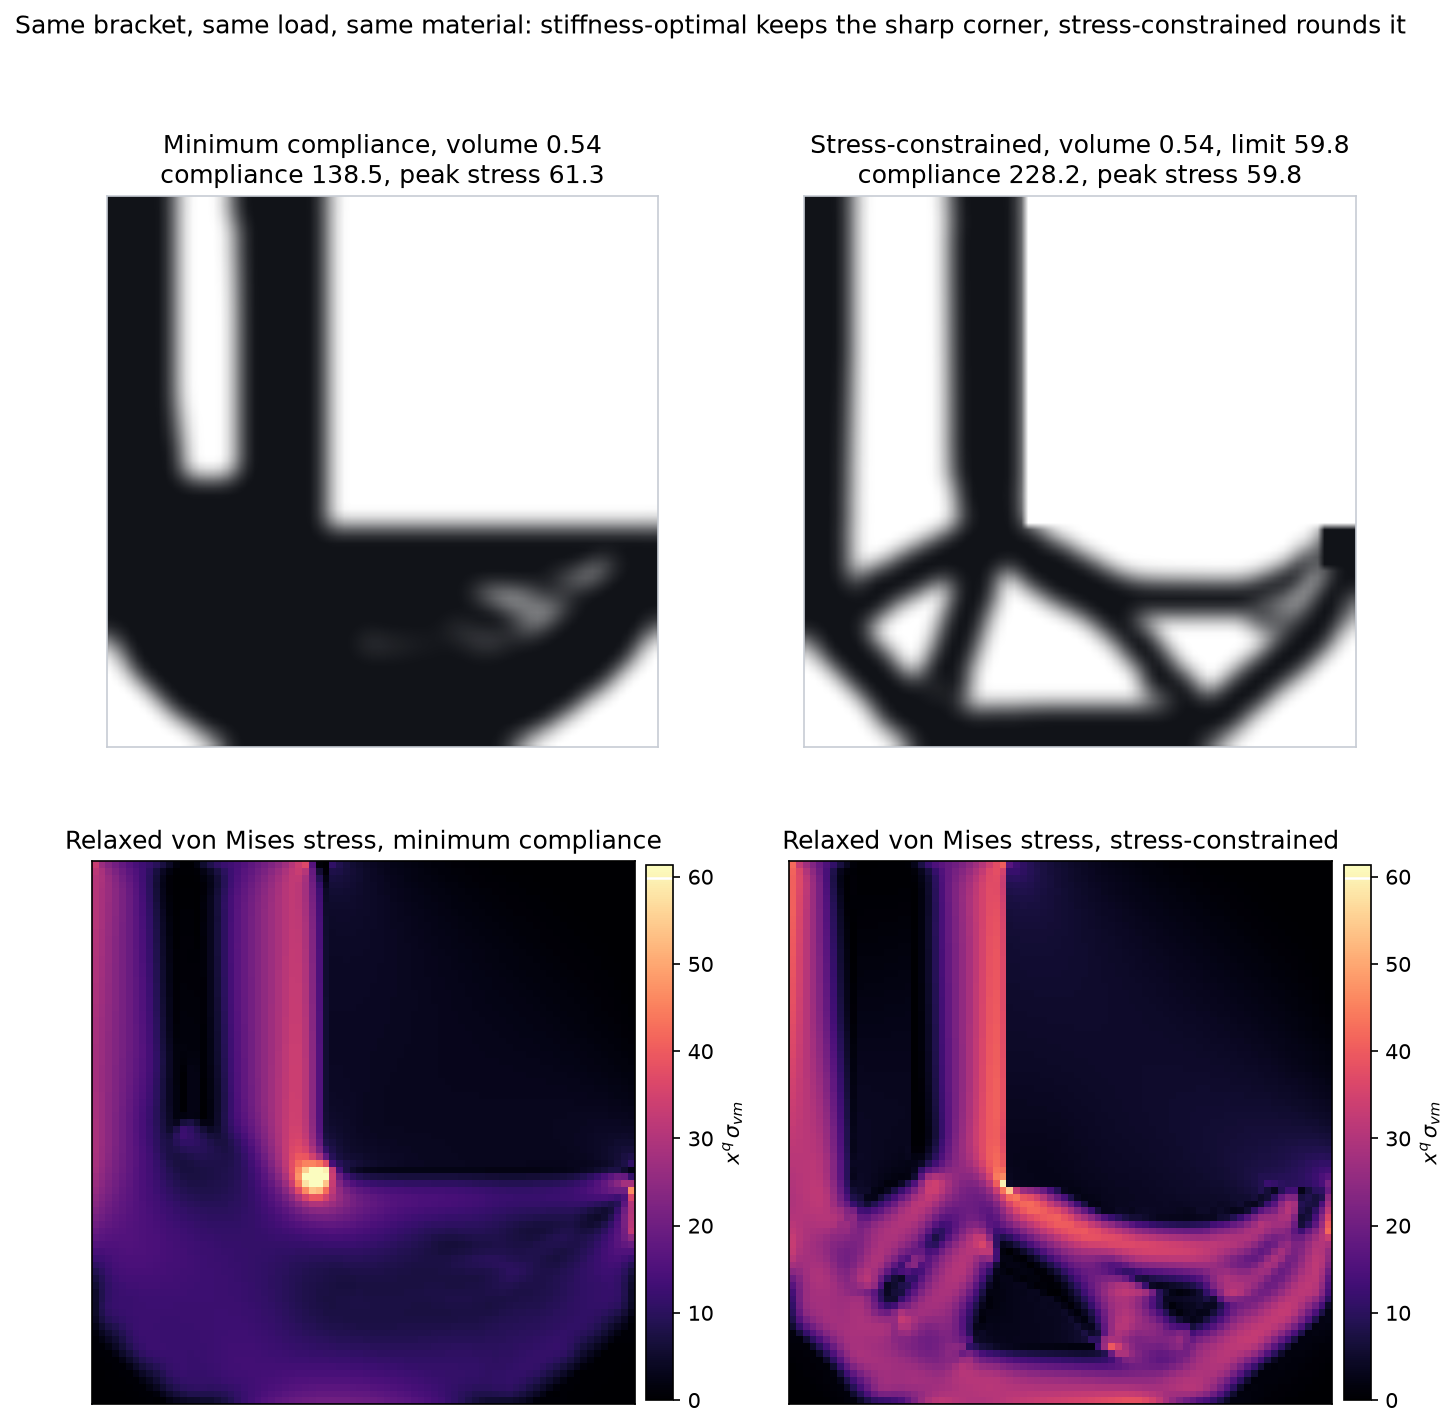
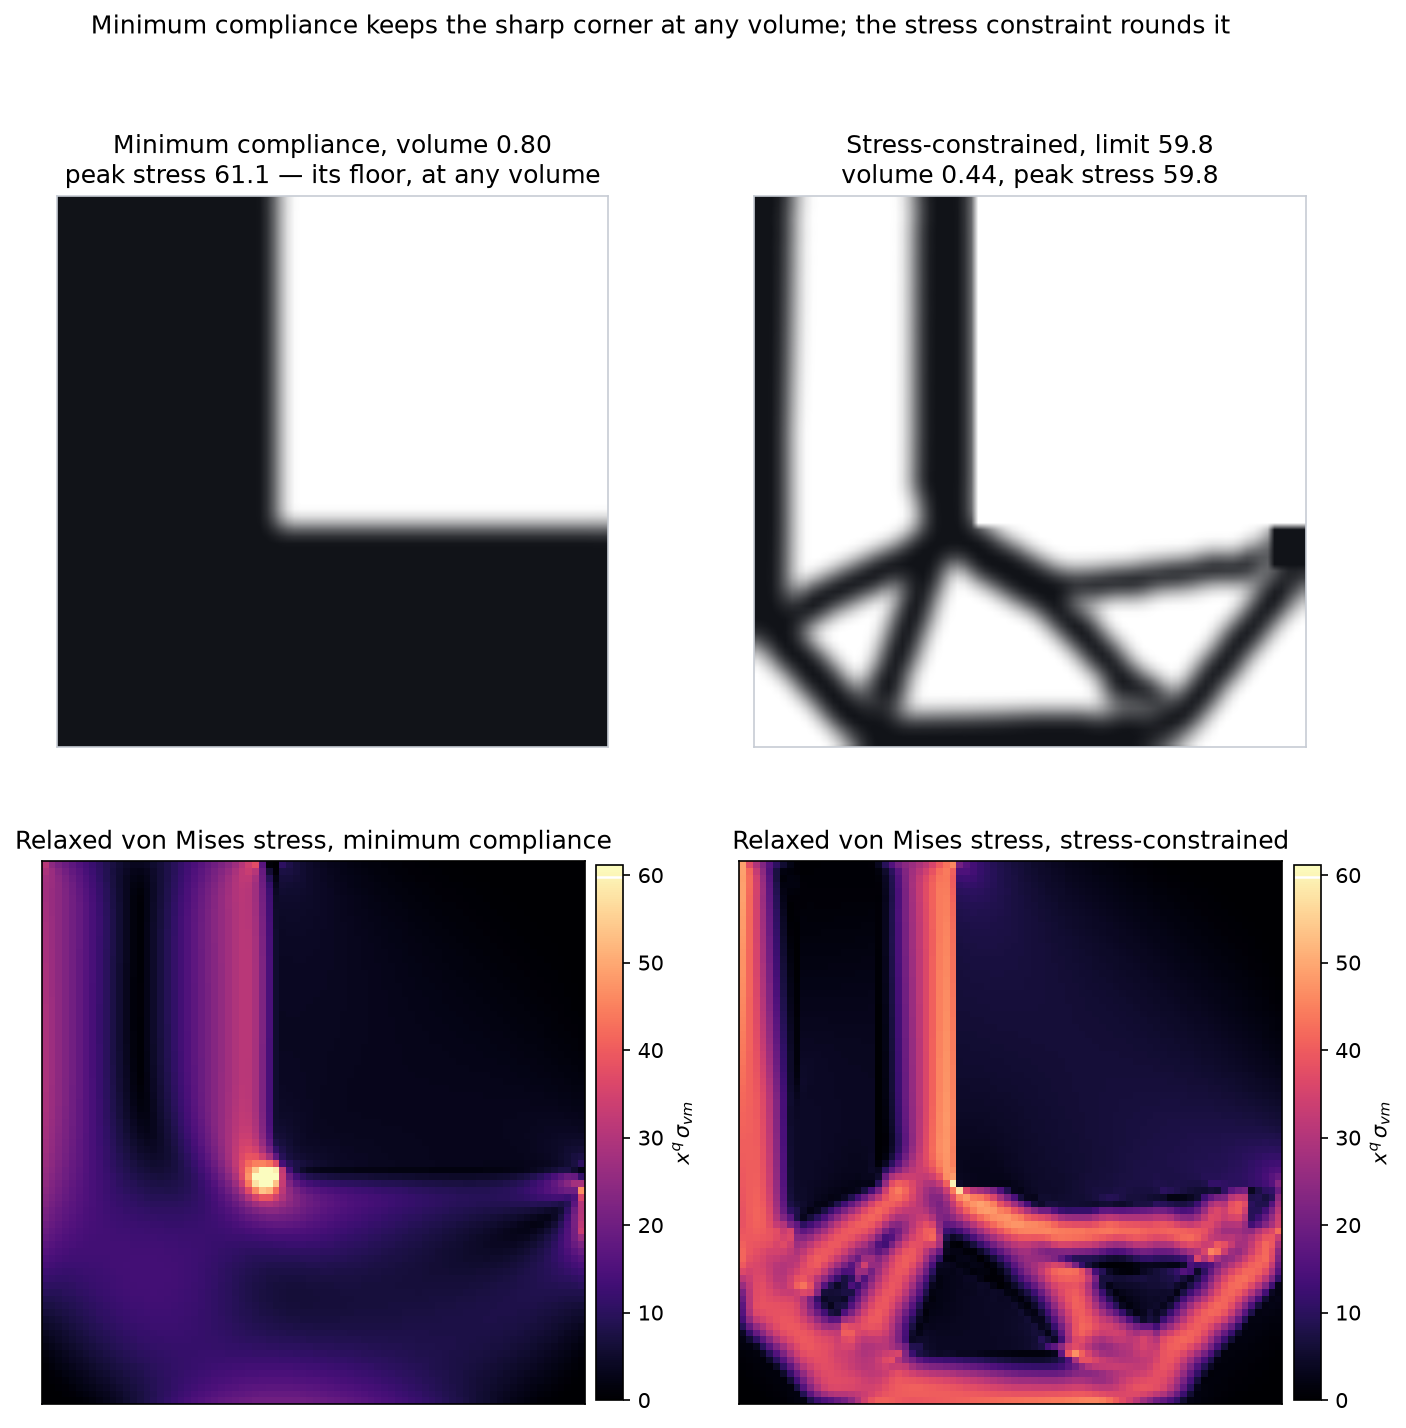
Correct the stress benchmark's reported numbers and refocus the mesh study
The README quoted the compliance stress-floor table from a 200-iteration sweep
that did not include the 0.40 volume point; regenerated from the example's own
300-iteration output, which also shows the peak climbing again below half the
domain as the members thin. Trimmed the material-comparison table to the two
limits measured at the current P=12 default and stated the loose-limit regime in
prose rather than carrying rows measured at the old P=8.

The mesh study asked whether each design's peak stress moves under refinement.
For the stress-constrained design that is answered by construction - it meets its
limit on whatever mesh it is given - so the study now asks the question that
carries information: whether the volume it needs for a fixed physical
requirement converges, mirroring the compliance mesh-independence study.

Regenerated the L-bracket figures. The convergence plot now shows the
continuation ramp and trust-region guard at work: the peak stress overshoots to
2.7x the limit in the first 40 iterations, is pulled back, then sits exactly on
the limit while the volume settles.

Claude-Session: https://claude.ai/code/session_011UvjnfetrFEoYyZpWWzC5A

diff --git a/fea-topopt/examples/stress_mesh_study.py b/fea-topopt/examples/stress_mesh_study.py
@@ -1,19 +1,27 @@
-"""Mesh dependence of the peak stress: compliance-optimal versus stress-constrained.
+"""Is a stress-constrained design a property of the part or of the mesh?
 
 At a re-entrant corner the elasticity solution is singular, so the peak stress a
-finite element model reports there is not a property of the part but of the
-mesh: refine the mesh and it grows without bound. A minimum compliance design
-keeps that corner, so its reported peak stress is a mesh artefact and any margin
-computed from it is fictitious.
+finite element model reports there grows without bound as the mesh is refined.
+That has a consequence for both formulations, and they are not the same
+consequence.
+
+A minimum compliance design keeps the corner, so the peak stress reported for it
+is largely a property of the discretisation: refine the mesh and the number
+climbs, and any safety margin computed from it moves with it.
 
 A stress-constrained design has to satisfy its limit on whichever mesh it is
-solved on, so its peak stress is a design property. With the filter radius held
-fixed in physical units, this script solves both problems on a sequence of
-meshes and reports how each design's peak stress moves.
+solved on, so its peak stress is pinned by construction. The question that
+matters for it is whether the *volume* it needs converges: if the same physical
+requirement demands steadily more material as the mesh is refined, the answer is
+a discretisation artefact too.
+
+This script holds the stress limit fixed in absolute terms and the filter radius
+fixed in physical units, then solves both problems on a sequence of meshes.
 
 Run from the project root::
 
     python examples/stress_mesh_study.py
+    python examples/stress_mesh_study.py --meshes 60 80 100 --volfrac 0.7
 """
 
 from __future__ import annotations
@@ -27,59 +35,64 @@ import numpy as np
 
 sys.path.insert(0, os.path.dirname(os.path.dirname(os.path.abspath(__file__))))
 
-from fea import TopologyOptimizer, TopOptSettings  # noqa: E402
 from fea.stress_topopt import StressConstrainedOptimizer, StressSettings  # noqa: E402
-from stress_lbracket import REFERENCE_N, REFERENCE_RMIN, l_bracket  # noqa: E402
+from stress_lbracket import (  # noqa: E402
+    REFERENCE_N,
+    REFERENCE_RMIN,
+    compliance_design,
+    l_bracket,
+    make_probe,
+)
 
 
 def main() -> None:
     parser = argparse.ArgumentParser(description=__doc__)
     parser.add_argument("--meshes", type=int, nargs="+", default=[60, 80, 100])
-    parser.add_argument("--limit-ratio", type=float, default=0.85)
-    parser.add_argument("--volfrac", type=float, default=0.45, help="compliance design volume")
-    parser.add_argument("--iterations", type=int, default=200)
+    parser.add_argument(
+        "--limit",
+        type=float,
+        default=52.0,
+        help="absolute stress limit, held fixed across every mesh",
+    )
+    parser.add_argument(
+        "--volfrac",
+        type=float,
+        default=0.7,
+        help="volume for the compliance design; above its floor so the corner dominates",
+    )
+    parser.add_argument("--iterations", type=int, default=300)
     args = parser.parse_args()
 
-    # The stress limit is fixed in absolute terms from the coarsest mesh, so that
-    # every run targets the same physical allowable.
-    limit = None
-    rows = []
+    print(
+        f"Stress limit {args.limit} on every mesh; compliance designs at volume "
+        f"fraction {args.volfrac}; filter radius fixed in physical units.\n"
+    )
+    header = (
+        f"{'mesh':>9} {'solid bracket':>14} {'compliance peak':>16} "
+        f"{'constrained volume':>19} {'its peak':>9}"
+    )
+    print(header)
+    print("-" * len(header))
 
+    rows = []
     for n in args.meshes:
         rmin = REFERENCE_RMIN * n / REFERENCE_N
         model, bcs, passive_void, load_patch = l_bracket(n)
-        probe = StressConstrainedOptimizer(
-            model,
-            bcs,
-            StressSettings(stress_limit=1.0, filter_radius=rmin),
-            passive_void=passive_void,
-            passive_solid=load_patch,
-            unconstrained=load_patch,
-        )
+        probe = make_probe(model, bcs, rmin, passive_void, load_patch)
+
         full = probe.physical_density(np.ones(model.mesh.n_elements))
         peak_full = float(probe.analyse(full)[4][probe.design_mask].max())
-        if limit is None:
-            limit = args.limit_ratio * peak_full
 
         start = time.perf_counter()
-        compliance = TopologyOptimizer(
-            model,
-            bcs,
-            TopOptSettings(
-                volume_fraction=args.volfrac,
-                filter_radius=rmin,
-                filter_type="density",
-                max_iterations=args.iterations,
-            ),
-            passive_void=passive_void,
-            passive_solid=load_patch,
-        ).run()
-        peak_compliance = float(probe.analyse(compliance.density)[4][probe.design_mask].max())
-
+        _, peak_compliance = compliance_design(
+            model, bcs, rmin, passive_void, load_patch, args.volfrac, args.iterations
+        )
         constrained = StressConstrainedOptimizer(
             model,
             bcs,
-            StressSettings(stress_limit=limit, filter_radius=rmin, max_iterations=args.iterations),
+            StressSettings(
+                stress_limit=args.limit, filter_radius=rmin, max_iterations=args.iterations
+            ),
             passive_void=passive_void,
             passive_solid=load_patch,
             unconstrained=load_patch,
@@ -88,30 +101,27 @@ def main() -> None:
 
         rows.append((n, peak_full, peak_compliance, constrained.volume_fraction, constrained.max_stress))
         print(
-            f"{n}x{n}: full bracket {peak_full:.1f}, compliance design {peak_compliance:.1f}, "
-            f"stress-constrained {constrained.max_stress:.1f} at volume "
-            f"{constrained.volume_fraction:.3f}  ({elapsed:.0f}s)",
+            f"{n:>4}x{n:<4} {peak_full:>14.2f} {peak_compliance:>16.2f} "
+            f"{constrained.volume_fraction:>19.4f} {constrained.max_stress:>9.2f}"
+            f"   ({elapsed:.0f}s)",
             flush=True,
         )
 
-    print(f"\nStress limit {limit:.2f}; compliance designs at volume fraction {args.volfrac}\n")
-    header = (
-        f"{'mesh':>9} {'full bracket':>13} {'compliance design':>18} "
-        f"{'stress-constrained':>19} {'its volume':>11}"
-    )
-    print(header)
-    print("-" * len(header))
-    for n, peak_full, peak_compliance, volume, peak_constrained in rows:
-        print(
-            f"{n:>4}x{n:<4} {peak_full:>13.1f} {peak_compliance:>18.1f} "
-            f"{peak_constrained:>19.1f} {volume:>11.3f}"
-        )
+    peaks_full = np.array([r[1] for r in rows])
+    peaks_compliance = np.array([r[2] for r in rows])
+    volumes = np.array([r[3] for r in rows])
 
-    first, last = rows[0], rows[-1]
+    print()
     print(
-        f"\nRefining from {first[0]}x{first[0]} to {last[0]}x{last[0]}: the compliance design's "
-        f"peak rises {100 * (last[2] / first[2] - 1):+.0f}%, the stress-constrained design's "
-        f"{100 * (last[4] / first[4] - 1):+.0f}%."
+        f"  Solid bracket peak stress rises {100 * (peaks_full[-1] / peaks_full[0] - 1):.0f}% "
+        f"across these meshes, and the compliance design's peak rises "
+        f"{100 * (peaks_compliance[-1] / peaks_compliance[0] - 1):.0f}%: both are "
+        "reading the\n  corner singularity, which the mesh resolves better each time."
+    )
+    spread = (volumes.max() - volumes.min()) / volumes.mean()
+    print(
+        f"  The stress-constrained volume varies by {100 * spread:.1f}% "
+        f"({volumes.min():.3f} to {volumes.max():.3f}) for the same physical requirement."
     )
 
 

diff --git a/fea-topopt/README.md b/fea-topopt/README.md
@@ -197,16 +197,18 @@ it means searching over its volume — and that search is what makes the point:
 
 ```
 Minimum compliance, peak relaxed von Mises stress against volume fraction
-  volume 0.40:  peak 61.40      volume 0.70:  peak 61.12
-  volume 0.50:  peak 61.40      volume 0.80:  peak 61.12
-  volume 0.60:  peak 61.15      volume 0.95:  peak 61.12
+  volume 0.40:  peak 67.94      compliance 175.5
+  volume 0.50:  peak 61.38      compliance 144.7
+  volume 0.60:  peak 61.15      compliance 132.3
+  volume 0.80:  peak 61.12      compliance 131.4
 ```
 
 **The compliance design has a stress floor of 61.1 that more material cannot
-lower.** Past about 60% of the domain the optimiser converges to the same layout,
-corner and all, and the corner sets the peak. For any requirement below 61.1 —
-that is, any requirement the sharp corner itself violates — minimum compliance
-cannot produce a safe part at any weight.
+lower.** Below about half the domain its members thin out and the peak climbs
+again; above 60% the optimiser converges to the same layout however much material
+it is given, corner and all, and the corner sets the peak. For any requirement
+below 61.1 — that is, any requirement the sharp corner itself violates — minimum
+compliance cannot produce a safe part at any weight.
 
 The stress-constrained formulation meets those requirements comfortably:
 
@@ -214,16 +216,17 @@ The stress-constrained formulation meets those requirements comfortably:
 | --- | --- | --- |
 | 52.8 (75% of solid) | unattainable at any volume | **0.53** |
 | 59.8 (85% of solid) | unattainable at any volume | **0.44** |
-| 70.4 (solid bracket) | 0.39 | 0.41 |
-| 80.9 (115% of solid) | 0.32 | 0.36 |
 
 ![Stress-constrained L-bracket](results/stress_lbracket.png)
 
-The bottom two rows are the honest other half. Once the limit rises above the
-compliance floor the corner stops binding, and there minimum compliance is
-slightly *lighter* — the aggregated constraint is an approximation and the
-stress-constrained problem is strongly non-convex, so it wins where the
-constraint does work compliance cannot, not everywhere.
+The honest other half: this is the regime where the constraint does work
+compliance cannot. Once the limit rises above the compliance floor the corner
+stops binding, and the two formulations become comparable — at a limit of 70.4,
+the solid bracket's own peak, the stress-constrained design needs a volume
+fraction of 0.38 against roughly 0.39 for minimum compliance. The aggregated
+constraint is an approximation and the problem is strongly non-convex, so the
+stress formulation wins decisively only where a local hot spot is what actually
+governs.
 
 Two implementation details turned out to matter more than expected, and both are
 recorded in the code:
@@ -358,7 +361,7 @@ python examples/optimize.py --case mbb --nx 240 --ny 80 --rmin 4
 python examples/filter_study.py                # regularisation study
 python examples/optimize3d.py --case all       # 3D cantilever and bridge
 python examples/stress_lbracket.py             # stress-constrained L-bracket
-python -m pytest tests/ -q                     # 45 tests
+python -m pytest tests/ -q                     # 49 tests
 ```
 
 As a library:
@@ -420,7 +423,7 @@ examples/
   filter_study.py          checkerboarding and mesh independence
   optimize3d.py            3D cantilever and bridge with H8 elements
   stress_lbracket.py       stress-constrained versus compliance-optimal bracket
-tests/                     45 unit and verification tests
+tests/                     49 unit and verification tests
 web/
   load-paths.html          self-contained browser port of the 2D optimiser
 ```
